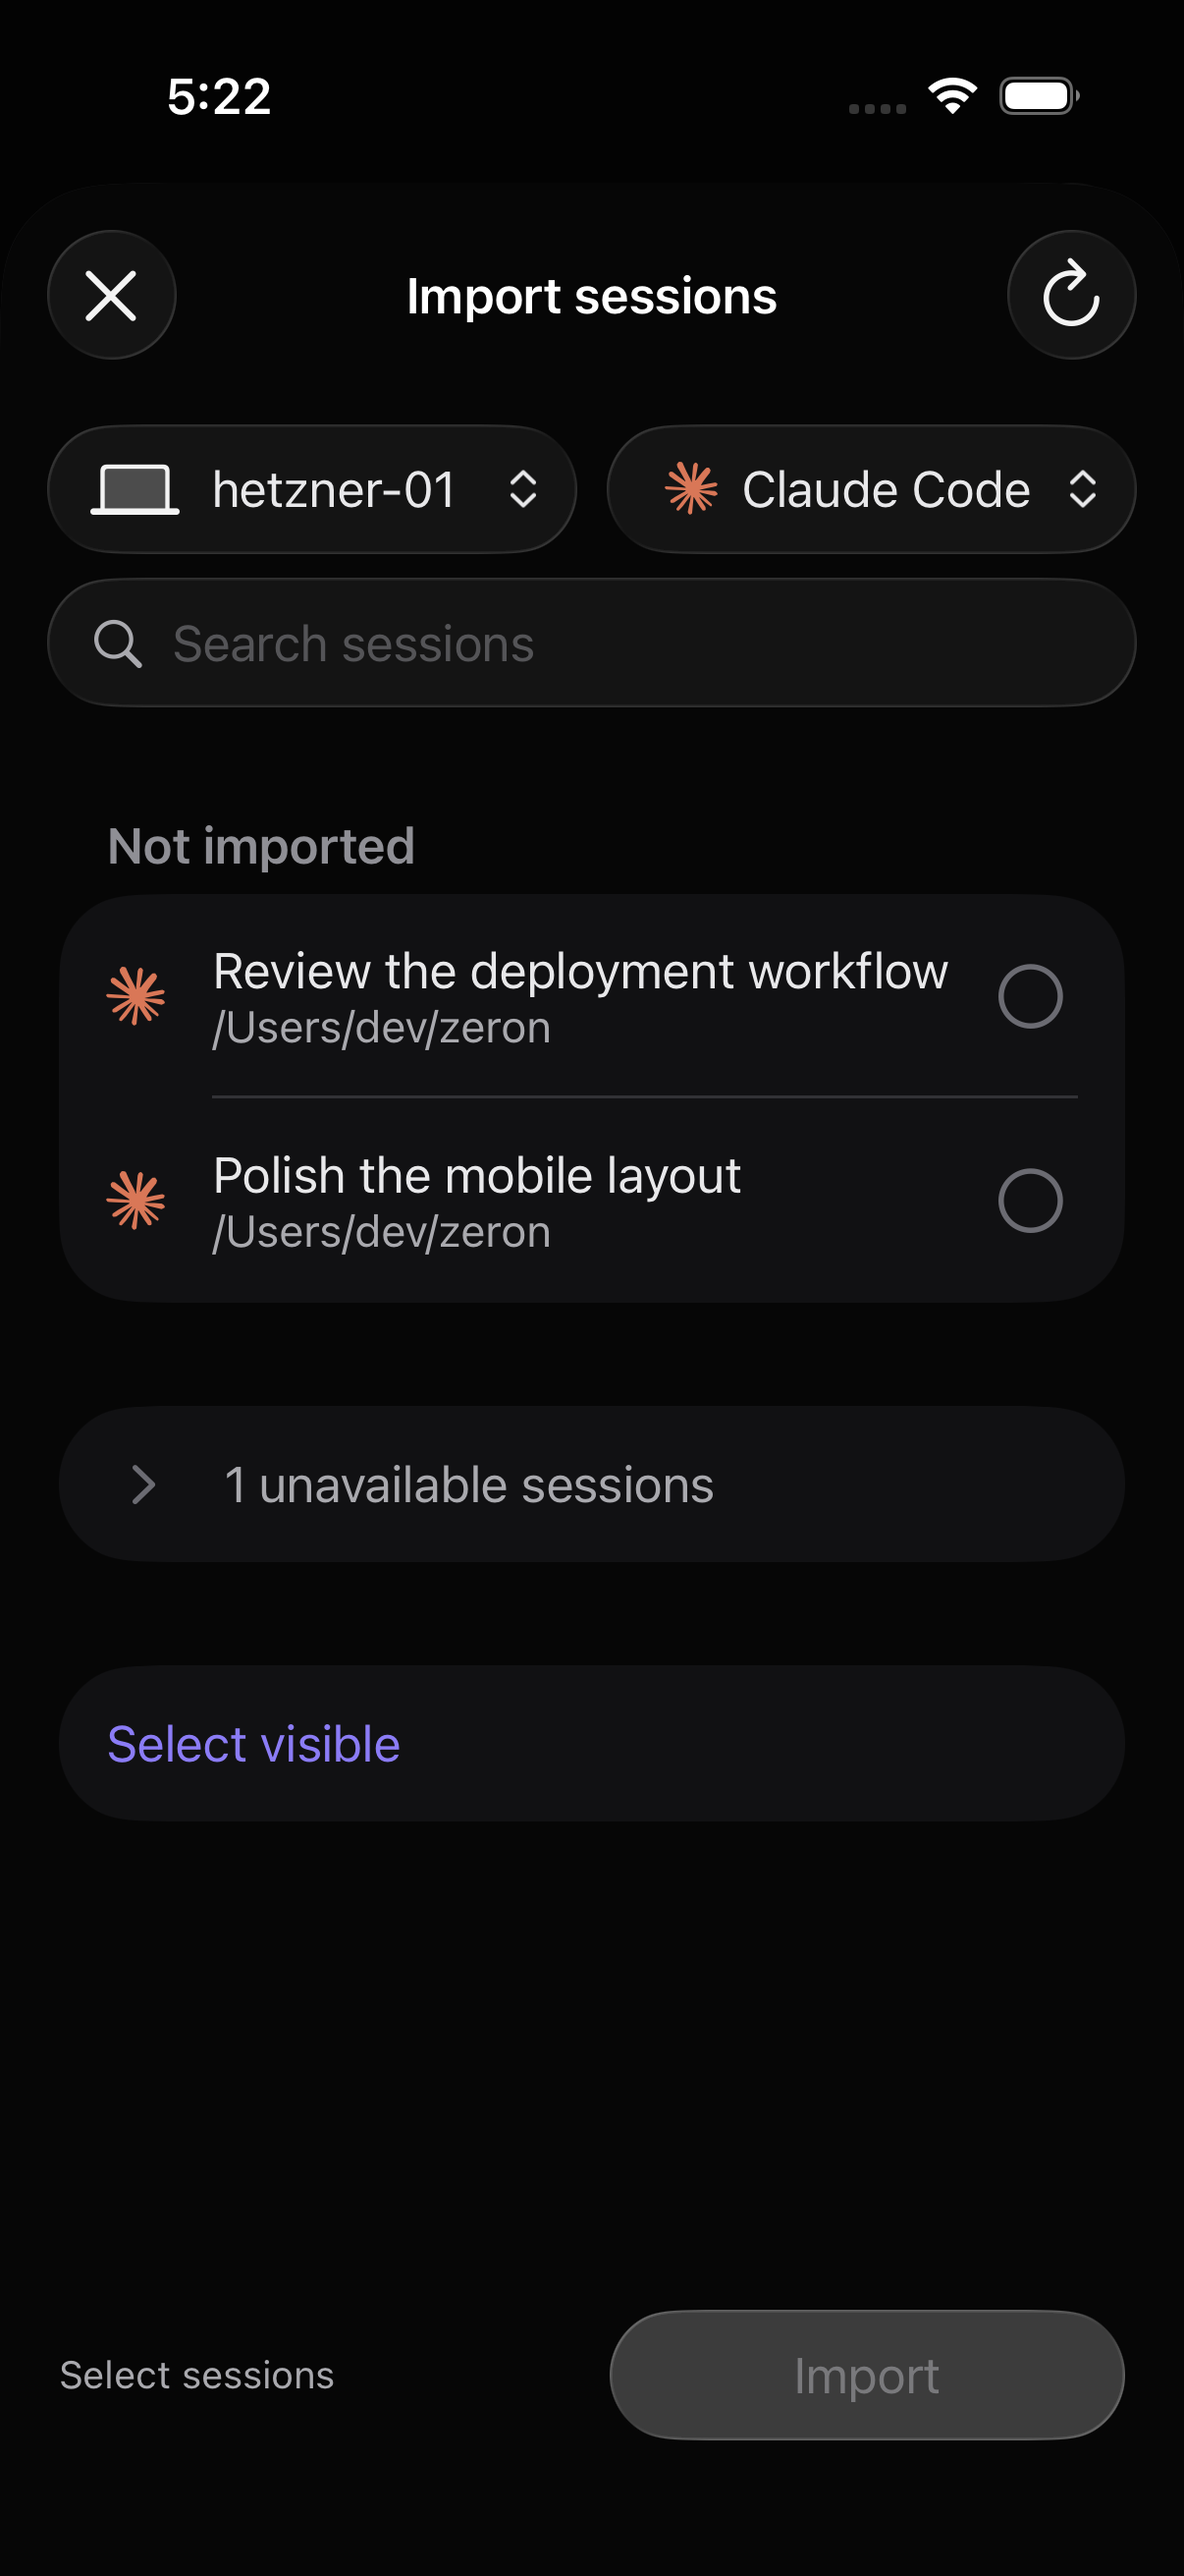
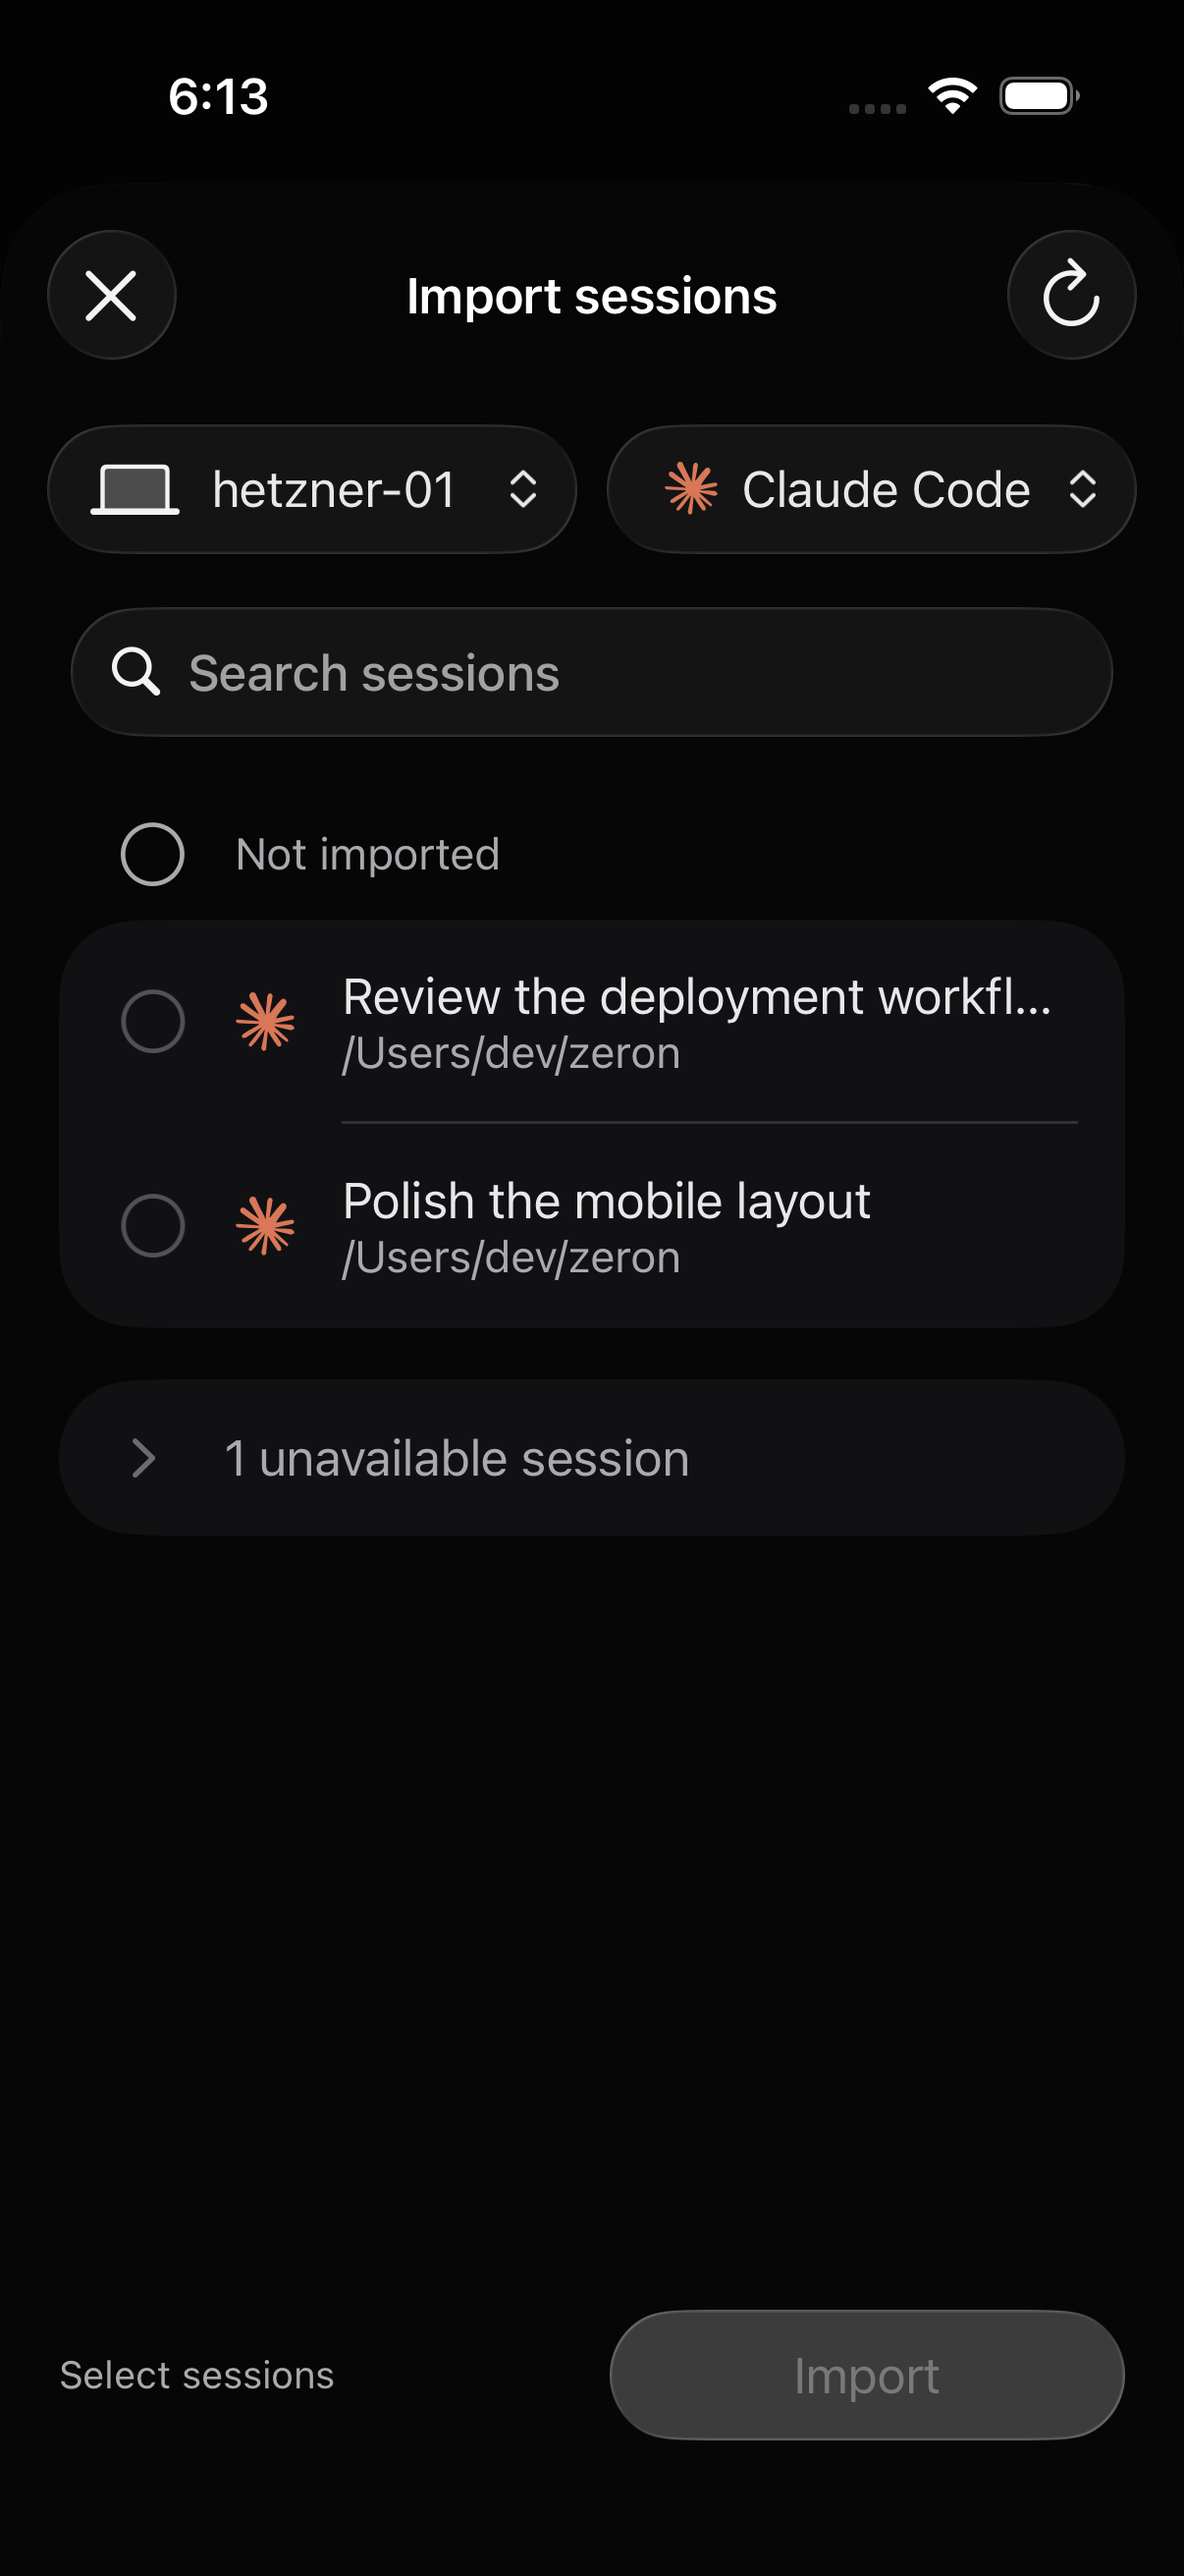
docs: refresh screenshots for native import selection

diff --git a/docs/screenshots/ios-import-layout/README.md b/docs/screenshots/ios-import-layout/README.md
@@ -1,17 +1,22 @@
 These are unedited XCTest screenshots from the offline demo workspace on an
 **iPhone 17 Pro simulator**, built with **Xcode 26.6**.
 
-Source revision: `45fe7c98f6a563157b9f52d542be3ad066b6ff3e`.
-CI run: https://github.com/AndPuQing/zeron/actions/runs/39202461986
+Source revision: `74094dec9e9b01becefdafa826f517689a8003fa`.
+CI run: https://github.com/AndPuQing/zeron/actions/runs/39207343088
 
-- `light-selected.png`: one selected session and the compact import action.
-- `dark.png`: dark appearance with unavailable sessions collapsed.
-- `unavailable.png`: expanded unavailable histories and their reasons.
+- `light-selected.png`: native row selection and a mixed group checkbox.
+- `dark.png`: empty group checkbox, native search and collapsed unavailable histories.
+- `unavailable.png`: expanded histories with their unavailability reasons.
 - `agents.png`: native single-selection agent menu with Claude selected.
-- `agent-selected.png`: the selected agent's brand mark and system pop-up indicator.
+- `agent-selected.png`: selected agent brand mark and native pop-up indicator.
 - `hosts.png`: native computer menu, including an unavailable computer.
 
-The two import UI regressions and six existing UI flows passed, alongside
-18 native unit tests. The import flow also checks selecting an agent, returning
-to all agents, and switching computers. Core tests and generated Swift binding
-checks also passed.
+18 native unit tests and 8 UI tests passed. The two import flows cover
+select-all and clear states, preserving hidden selections through filtering,
+restoring native row selection by source identity, keyboard bounds, unavailable
+history disclosure, scroll pagination, agent selection and switching computers.
+The standalone Select visible and Load more sessions rows are removed. VoiceOver
+can request another page through a custom action on list items.
+
+Mobile core checks passed 326 tests (1 ignored), and generated Swift bindings
+matched.
